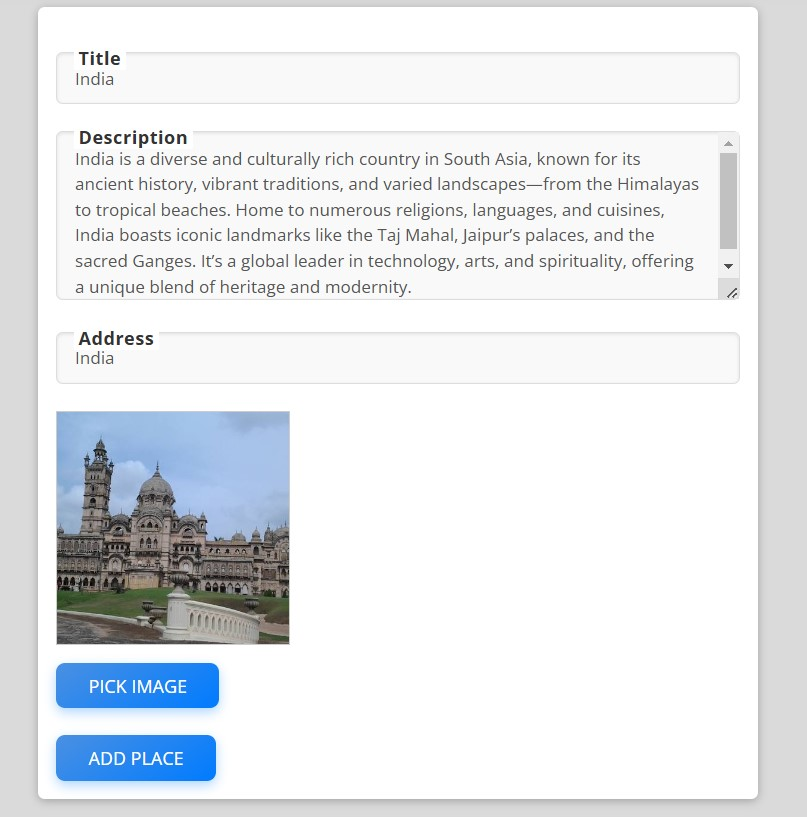
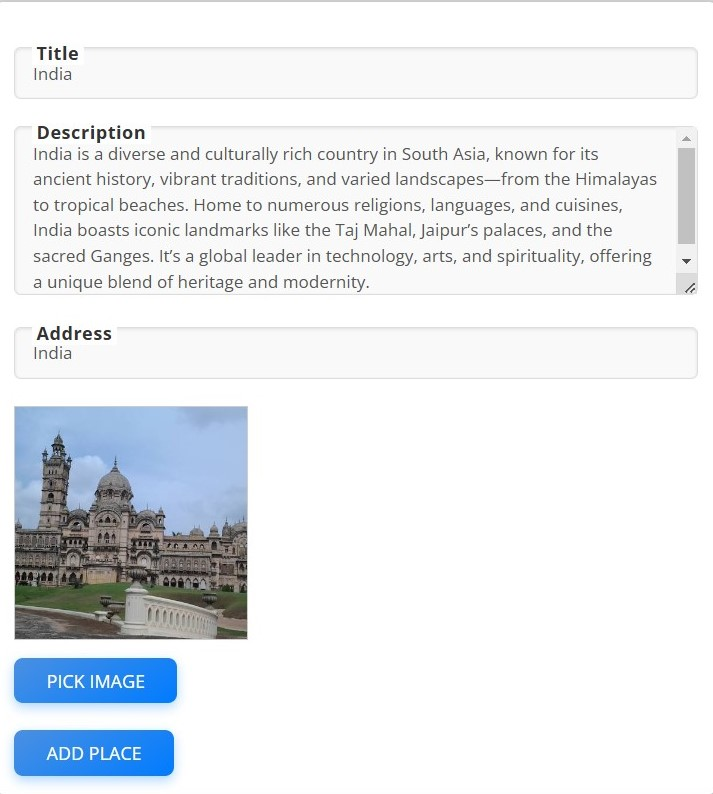
img related changes

Changed region(s): [[0.0, 0.0, 1.0, 1.0]]

diff --git a/src/app/components/home/projects/projects.component.ts b/src/app/components/home/projects/projects.component.ts
@@ -12,10 +12,10 @@ export class ProjectsComponent implements OnInit {
   Projects = [
     {
       imgs:[
-        '../../../../assets/ima ges/medmatch/screenshot.png',
-        '../../../../assets/images/medmatch/screenshot (1).png',
-        '../../../../assets/images/medmatch/screenshot (2).png',
-        '../../../../assets/images/medmatch/screenshot (3).png'],
+        '../../../../assets/images/projects/MERN-1.jpg',
+        '../../../../assets/images/projects/MERN-3.jpg',
+        '../../../../assets/images/projects/MERN-2.jpg',
+        '../../../../assets/images/projects/MERN-4.jpg'],
       Title:'Med Match',
       Description:'The purpose of this project is to enhance the safety of prescribing drugs and to address the challenges related to prescribing errors which can have significant damage the patient’s health, the project ultimate goal is to contribute to the overall improvement of medication safety in the healthcare department.',
       Technologies:['MongoDB','SASS','Angular-Material' , 'RxJS', 'Node.js'],

diff --git a/src/app/components/home/projects/projects.component.scss b/src/app/components/home/projects/projects.component.scss
@@ -100,6 +100,7 @@
         }
         .img-feature-project {
             width: 100%;
+            object-fit: cover;
         }
     }
     .project-info-right,
@@ -193,10 +194,16 @@
 }
 
 .img-container {
-    width: 600px;
-    max-height: 320px;
-    overflow: auto;
-    border-radius: 3px;
+    // width: 600px;
+    // max-height: 320px;
+    // overflow: auto;
+    // border-radius: 3px;
+    width: 100%;
+    height: 300px;
+    overflow: hidden;
+    display: flex;
+    align-items: center;
+    justify-content: center;
 }
 
 /* width */
